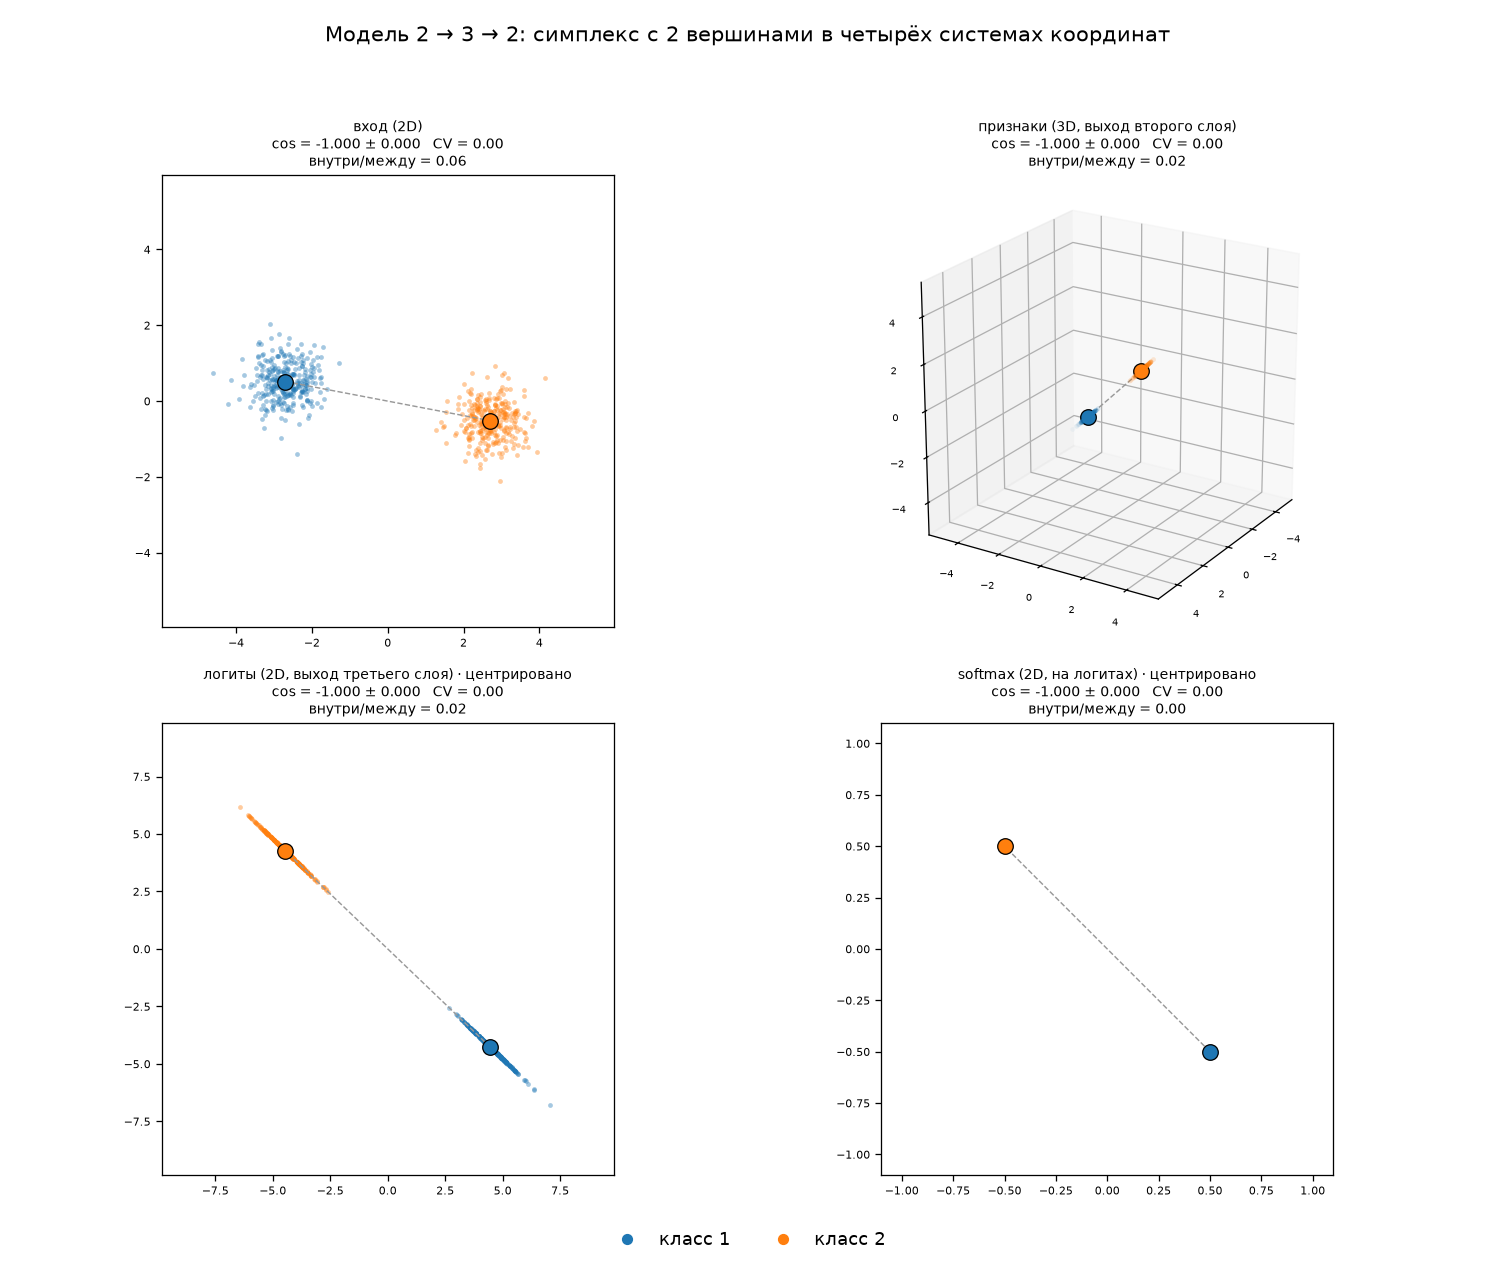
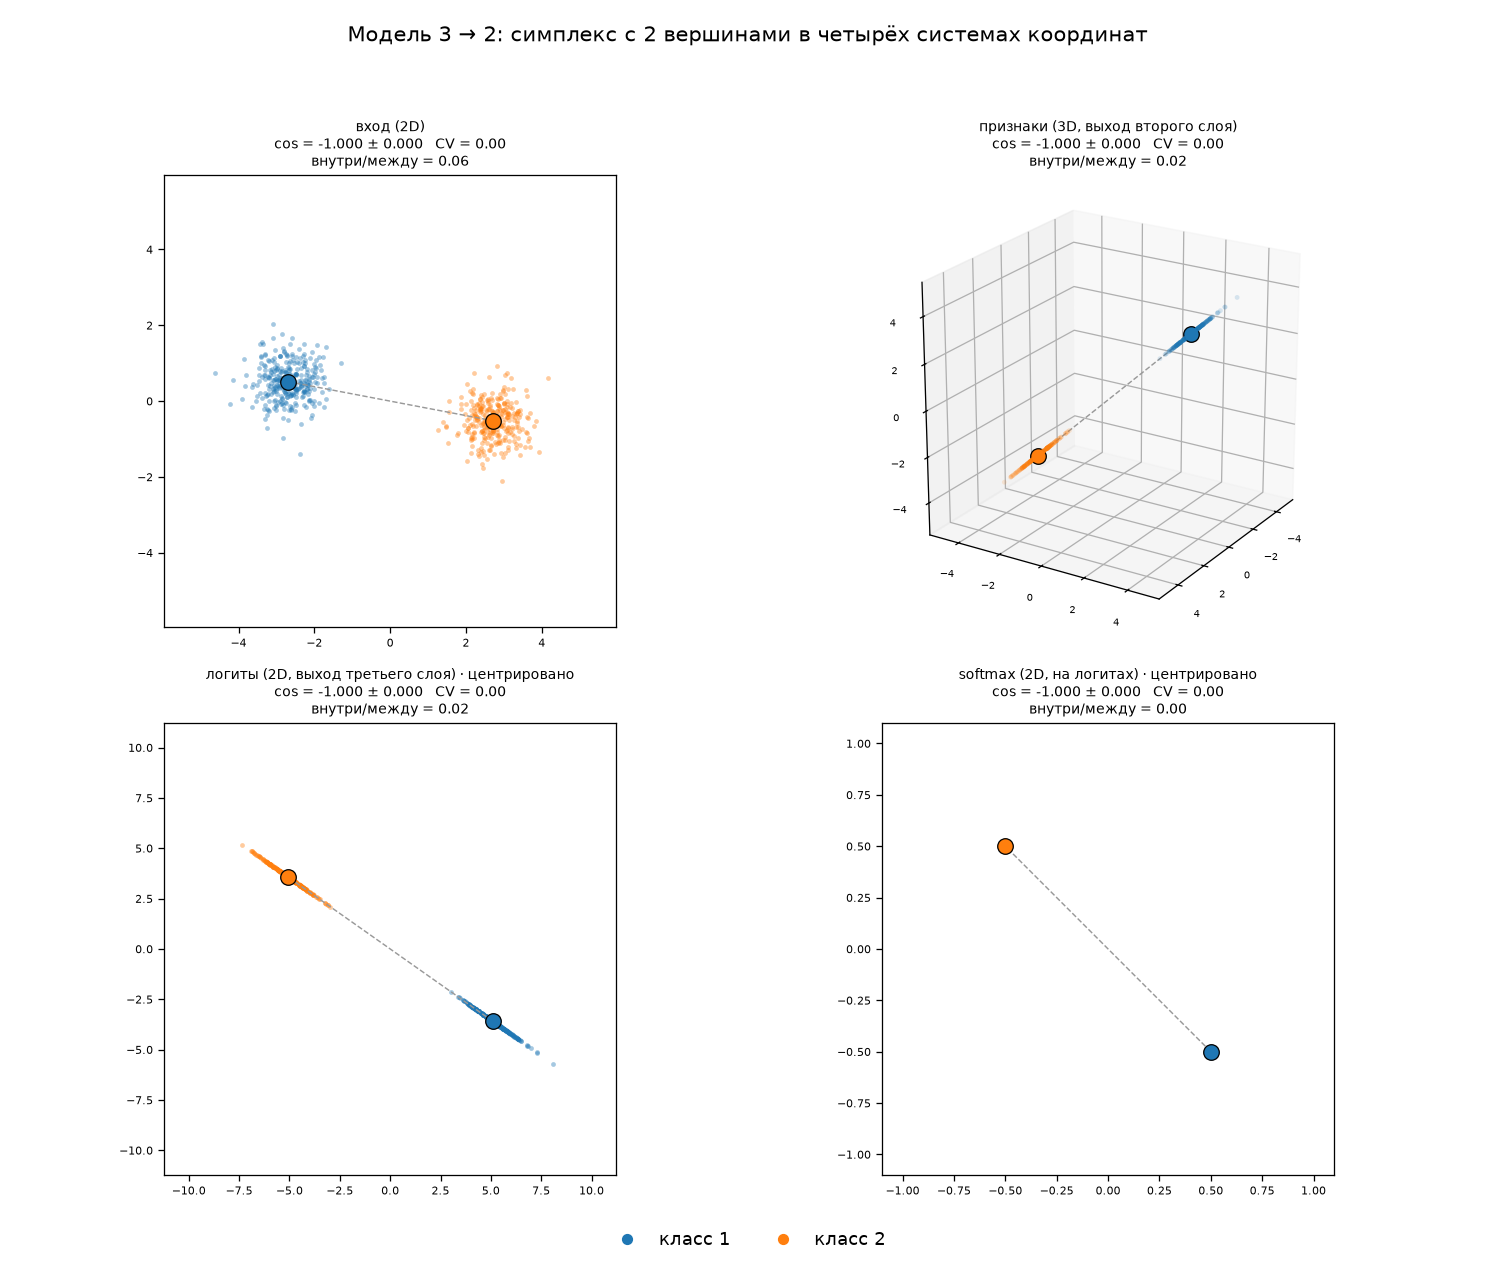
fix(toy): поправить подпись модели в заголовке графика
- в toy_simplex_spaces.py убрана лишняя стрелка в супертитуле
- перегенерированы toy_2to3.png и toy_3to2.png
- удалён неиспользуемый toy_3to4.png

diff --git a/experiments/toy_simplex_spaces.py b/experiments/toy_simplex_spaces.py
@@ -144,7 +144,7 @@ def build(hidden: int, C: int) -> None:
     handles = [plt.Line2D([], [], marker="o", ls="", color=COLORS[c], label=f"класс {c + 1}")
                for c in range(C)]
     fig.legend(handles=handles, loc="lower center", ncol=C, fontsize=11, frameon=False)
-    fig.suptitle(f"Модель 2 → {hidden} → {C}: симплекс с {C} вершинами "
+    fig.suptitle(f"Модель {hidden} → {C}: симплекс с {C} вершинами "
                  f"в четырёх системах координат", fontsize=13)
     fig.tight_layout(rect=(0, 0.04, 1, 0.95))
     out = OUT / f"toy_{hidden}to{C}.png"
